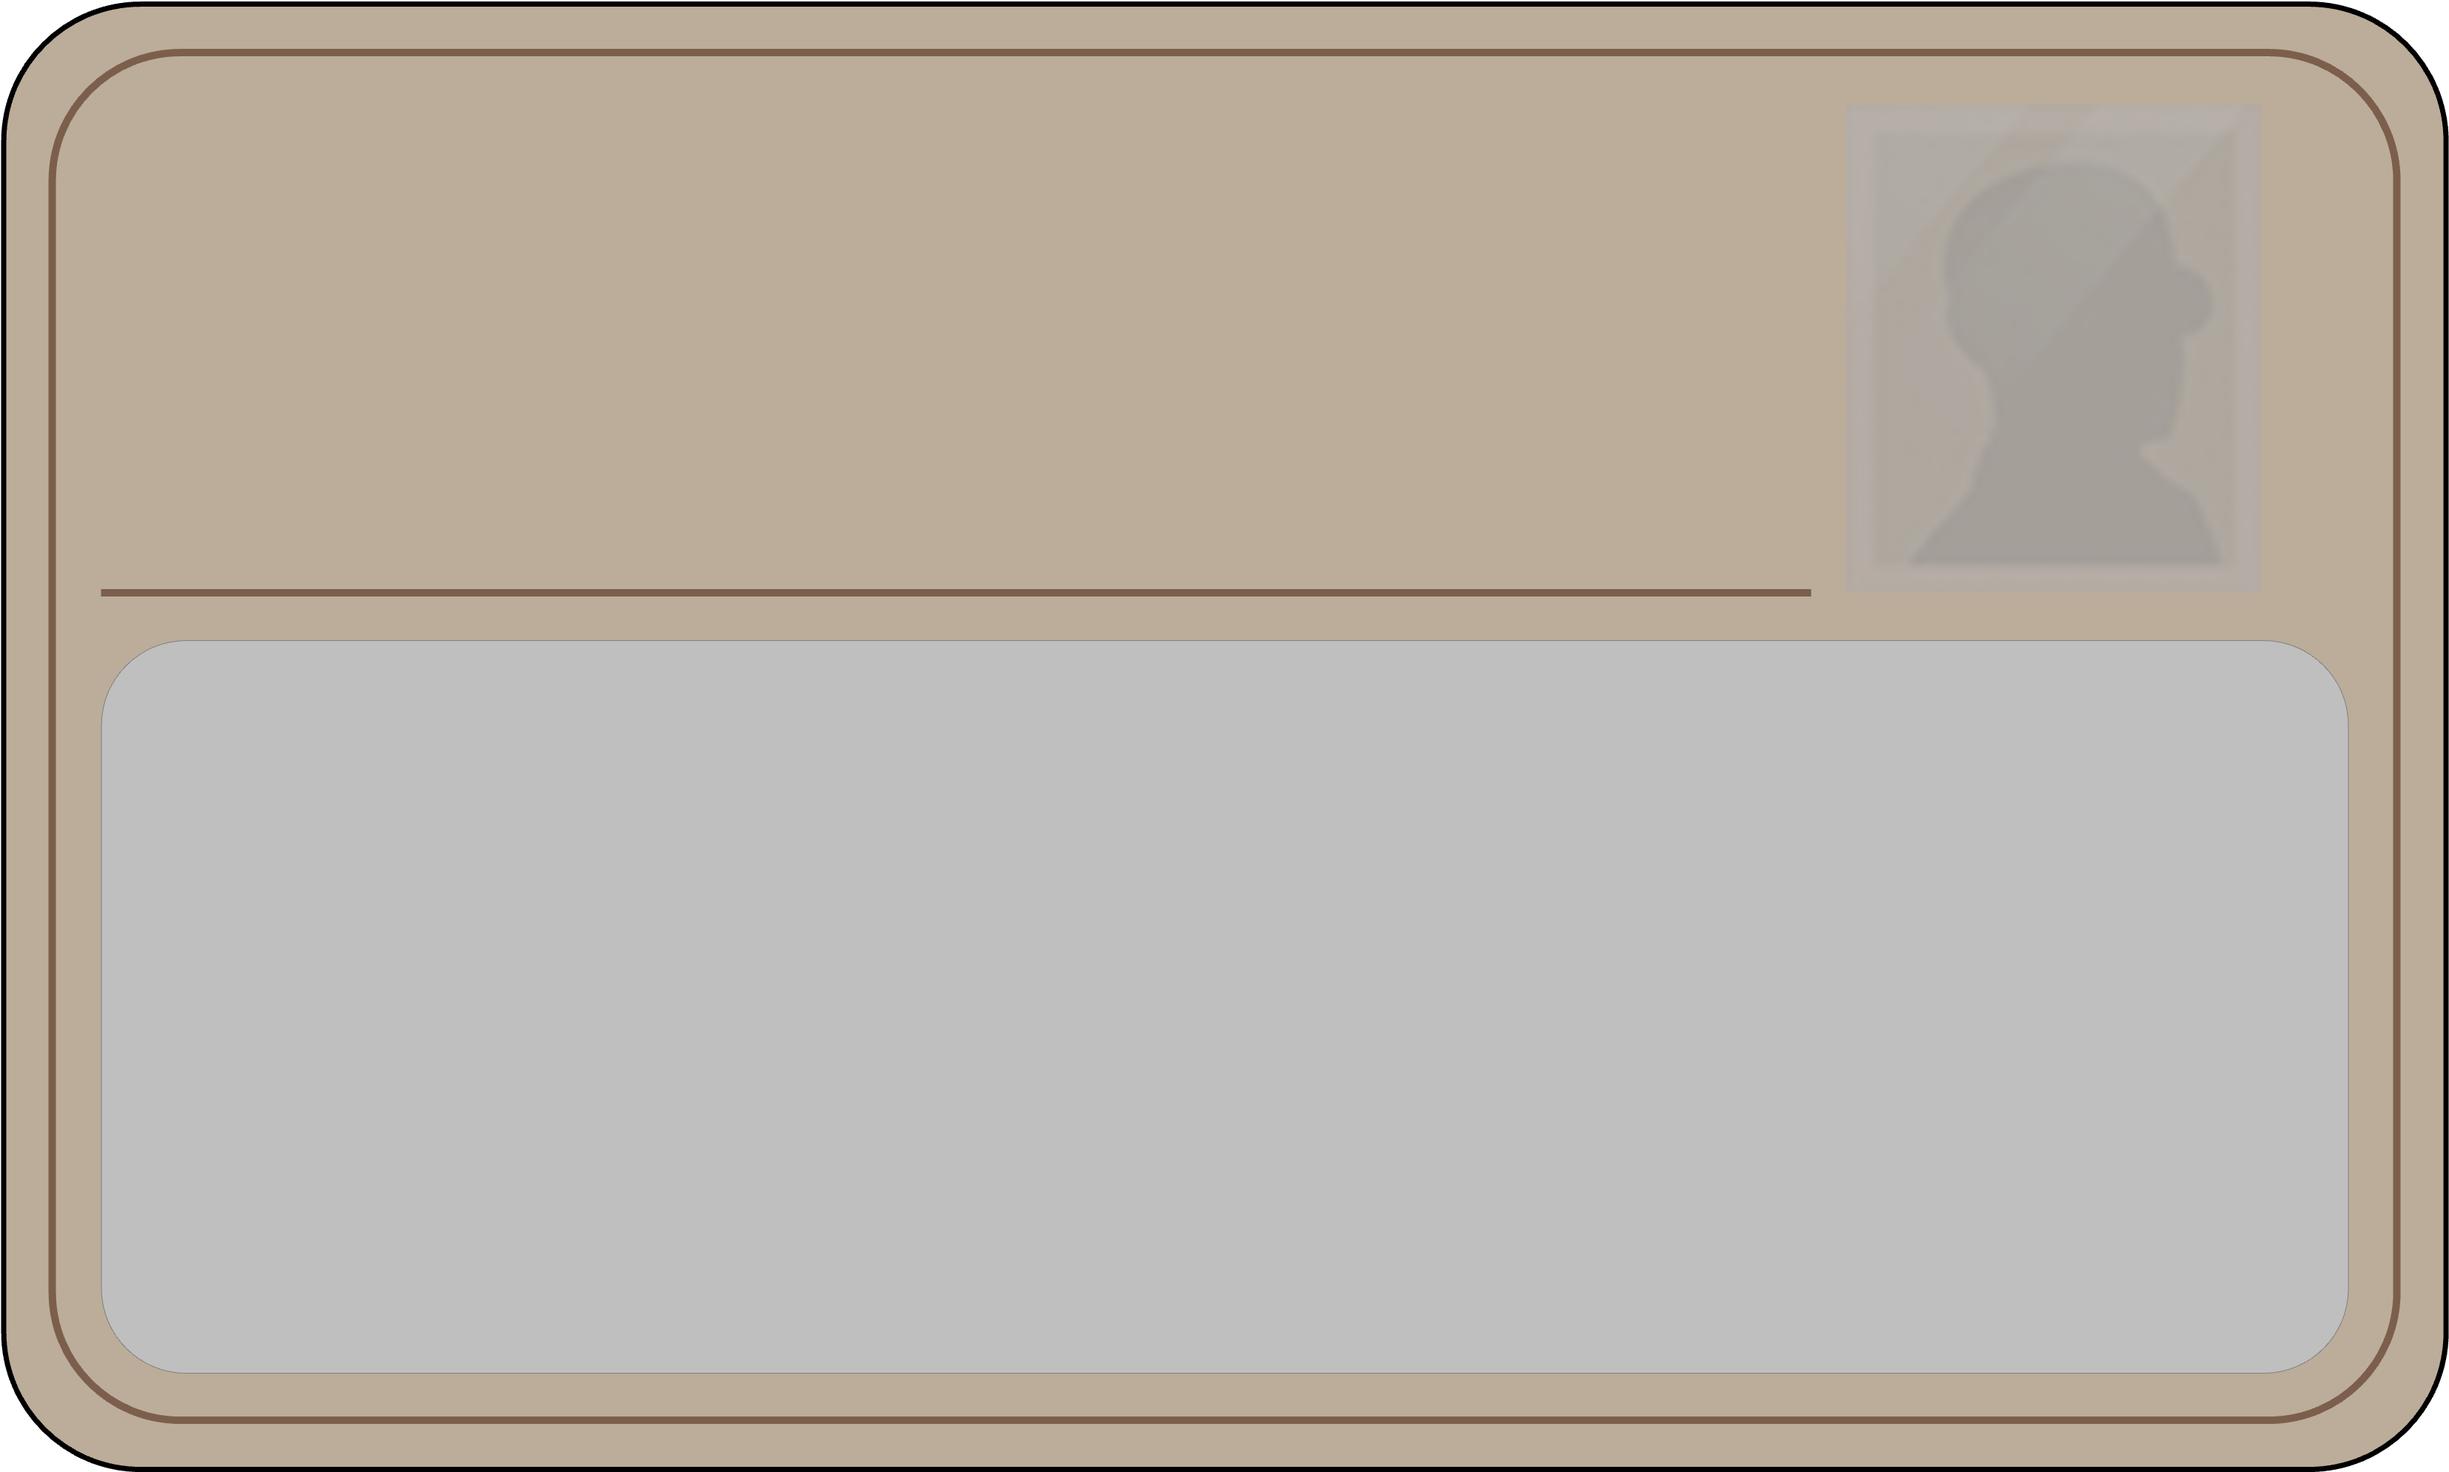
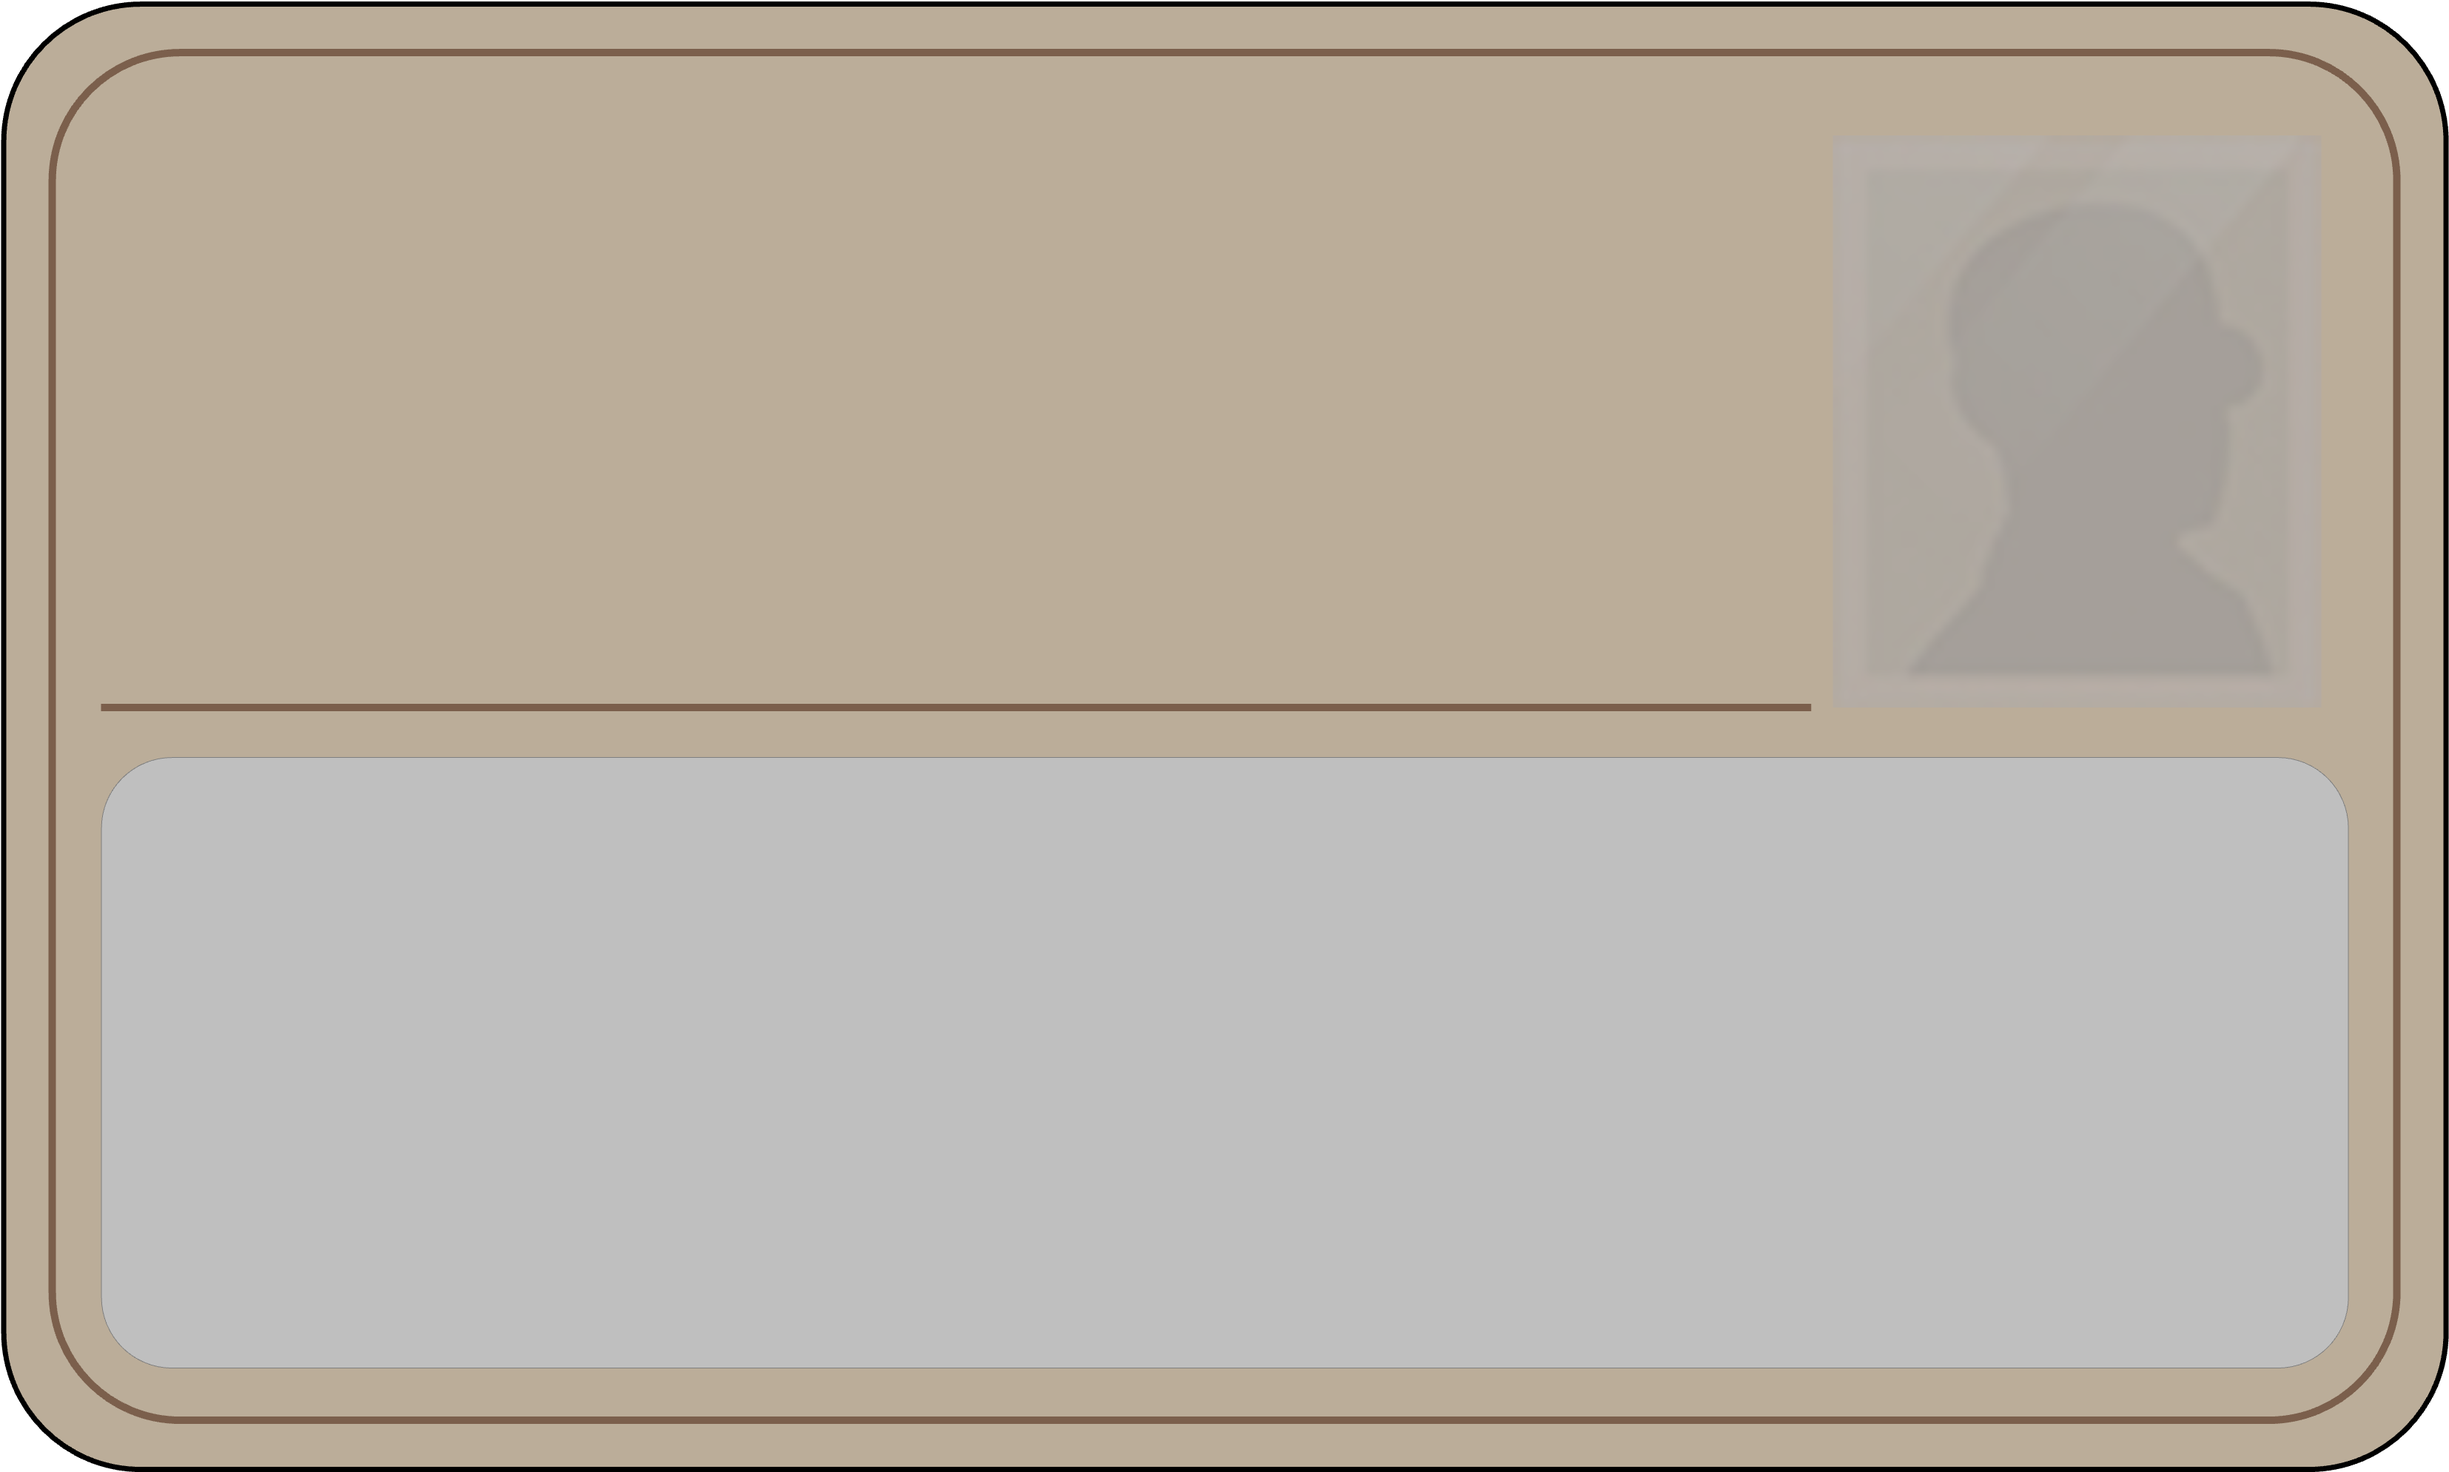
progress 50%

Changed region(s): [[0.0311, 0.4364, 0.9649, 0.5299], [0.0623, 0.904, 0.9338, 0.9351], [0.0311, 0.3741, 0.7471, 0.4052]]

diff --git a/codenames.py b/codenames.py
@@ -20,35 +20,99 @@ FPS = 60
 # Background Color
 BLACK = (0,0,0)
 WHITE = (255,255,255)
-GREY = (150,150,150)
+GREY = (200,200,200)
+BLUE = (0,0,255)
+RED = (255,0,0)
 screen.fill(BLACK) 
 
 # Initialize fonts
 titleFont = pg.font.SysFont("Arial",48,bold=True)
 menuFont = pg.font.SysFont("Arial",36)
 gameFont = pg.font.SysFont("Arial",24)
-wordsFont = pg.font.SysFont("Arial",36,bold=True)
+wordFont = pg.font.SysFont("Arial",36,bold=True)
+scoreFont = pg.font.SysFont("Arial",60,bold=True)
 
 # Load board image
 board = pg.transform.scale(pg.image.load("images/board.png"),winSize)
 
+# Load images
+cardSize = (5*61,3*60)
+cardImg = pg.transform.scale(pg.image.load("images/word-card.png"),cardSize)
+cardSelectImg = pg.transform.scale(pg.image.load("images/word-card-select.png"),cardSize)
+cardRedImg = pg.transform.scale(pg.image.load("images/word-card-red.png"),cardSize)
+cardBlueImg = pg.transform.scale(pg.image.load("images/word-card-blue.png"),cardSize)
+cardBlackImg = pg.transform.scale(pg.image.load("images/word-card-black.png"),cardSize)
+redImg1 = pg.transform.scale(pg.image.load("images/red1.png"),cardSize)
+redImg2 = pg.transform.scale(pg.image.load("images/red2.png"),cardSize)
+redImg3 = pg.transform.scale(pg.image.load("images/red1.png"),cardSize)
+redImg4 = pg.transform.scale(pg.image.load("images/red2.png"),cardSize)
+redImgs = [redImg1,redImg2,redImg3,redImg4]
+blueImg1 = pg.transform.scale(pg.image.load("images/blue1.png"),cardSize)
+blueImg2 = pg.transform.scale(pg.image.load("images/blue2.png"),cardSize)
+blueImg3 = pg.transform.scale(pg.image.load("images/blue1.png"),cardSize)
+blueImg4 = pg.transform.scale(pg.image.load("images/blue2.png"),cardSize)
+blueImgs = [blueImg1,blueImg2,blueImg3,blueImg4]
+bystImg1 = pg.transform.scale(pg.image.load("images/byst1.png"),cardSize)
+bystImg2 = pg.transform.scale(pg.image.load("images/byst2.png"),cardSize)
+bystImg3 = pg.transform.scale(pg.image.load("images/byst1.png"),cardSize)
+bystImg4 = pg.transform.scale(pg.image.load("images/byst2.png"),cardSize)
+bystImgs = [bystImg1,bystImg2,bystImg3,bystImg4]
+assnImg = pg.transform.scale(pg.image.load("images/assassin.png"),cardSize)
+
 # Read all words into a list, only once
-with open('wordlist.txt', 'r') as f:
+with open('wordlist-test.txt', 'r') as f:
     wordlist = [line.strip() for line in f if line.strip()]
 
 words = random.sample(wordlist,25)
 
 #----------------------------------------------------------------------------------------------------------------------
-# Draw all images on screen in current position
+# Inialize constants and variables
+#----------------------------------------------------------------------------------------------------------------------
+# Settings
+numAssns = 1 # Number of assassins
+turnTime = 300 # Time limit of each turn in seconds
+# imgStyle = 0 # WIP
+
+# Card numbers
+cardNums = list(range(0,25))
+
+# Card positions (top left corners)
+cardSpacing = 10
+cardPos = [[0]*2]*25
+i = 0
+for r in range(-2,3):
+    for c in range(-2,3):
+        cardPos[i] = [winSize[0]//2 - cardSize[0]//2 + r*(cardSize[0]+cardSpacing),winSize[1]//2 - cardSize[1]//2 + c*(cardSize[1]+cardSpacing) + 35]
+        i = i + 1
+
+rbFirst = random.randrange(0,2)
+if rbFirst:
+    redCards = np.array(random.sample(cardNums,8))
+    blueCards = np.array(random.sample(list(set(cardNums)-set(redCards)),9))
+else:
+    redCards = np.array(random.sample(cardNums,9))
+    blueCards = np.array(random.sample(list(set(cardNums)-set(redCards)),8))
+
+assnCard = np.array(random.sample(list((set(cardNums)-set(redCards))-set(blueCards)),numAssns))
+#----------------------------------------------------------------------------------------------------------------------
+# Draw all images on screen with various options
 #----------------------------------------------------------------------------------------------------------------------
 def draw(opts):
     # Draw board
     screen.fill(BLACK) 
     screen.blit(board,(0,0))
-    # Display each marble at current position
-    # for c in range(0,4):
-        # for m in range(0,4):
-            # screen.blit(marbs[c],pos[c,m]) 
+    # Display card grid
+    for i in range(0,25):
+        if i in redCards:
+            screen.blit(cardRedImg,cardPos[i]) 
+        elif i in blueCards:
+            screen.blit(cardBlueImg,cardPos[i]) 
+        elif i in assnCard:
+            screen.blit(cardBlackImg,cardPos[i]) 
+        else:
+            screen.blit(cardImg,cardPos[i]) 
+        wordText = wordFont.render(words[i],True,BLACK)
+        screen.blit(wordText,(cardPos[i][0] + cardSize[0]//2 - wordText.get_width()//2,cardPos[i][1] + 110))
     # Waiting to roll text
     if opts == 1:
         # textTurn = gameFont.render(colors[turn]+"'s turn.",True,WHITE)
@@ -78,7 +142,7 @@ def menu():
     draw(0)
     # Draw menu background
     menuSize = 400
-    pg.draw.rect(screen,(200,200,200),pg.Rect(winSize[0]//2 - menuSize//2,winSize[1]//2 - menuSize//2,menuSize,menuSize))
+    pg.draw.rect(screen,GREY,pg.Rect(winSize[0]//2 - menuSize//2,winSize[1]//2 - menuSize//2,menuSize,menuSize))
     # Draw menu text
     title = titleFont.render("Codenames",True,BLACK)
     screen.blit(title,(winSize[0]//2 - title.get_width()//2,winSize[1]//2 - title.get_height()//2 - 130))
@@ -112,6 +176,9 @@ def menu():
                 elif event.key == pg.K_ESCAPE:
                     pg.quit()
                     quit()
+            elif event.type == pg.MOUSEBUTTONDOWN:
+                return newMenu()
+
 
 #----------------------------------------------------------------------------------------------------------------------
 # Show new game menu and wait for selection
@@ -121,7 +188,7 @@ def newMenu():
     draw(0)
     # Draw menu background
     menuSize = 400
-    pg.draw.rect(screen,(200,200,200),pg.Rect(winSize[0]//2 - menuSize//2,winSize[1]//2 - menuSize//2,menuSize,menuSize))
+    pg.draw.rect(screen,GREY,pg.Rect(winSize[0]//2 - menuSize//2,winSize[1]//2 - menuSize//2,menuSize,menuSize))
     # Draw menu text
     title = titleFont.render("Codenames",True,BLACK)
     screen.blit(title,(winSize[0]//2 - title.get_width()//2,winSize[1]//2 - title.get_height()//2 - 130))
@@ -174,6 +241,8 @@ def newMenu():
                 # Back to main menu (ESC)
                 elif event.key == pg.K_ESCAPE:
                     return menu()
+            elif event.type == pg.MOUSEBUTTONDOWN:
+                return menu()
 
 
 #----------------------------------------------------------------------------------------------------------------------
@@ -183,7 +252,7 @@ def pause():
     draw(0)
     # Draw menu background
     menuSize = 350
-    pg.draw.rect(screen,(200,200,200),pg.Rect(winSize[0]//2 - menuSize//2,winSize[1]//2 - menuSize//2,menuSize,menuSize))
+    pg.draw.rect(screen,GREY,pg.Rect(winSize[0]//2 - menuSize//2,winSize[1]//2 - menuSize//2,menuSize,menuSize))
     # Draw menu text
     title = titleFont.render("Codenames",True,BLACK)
     screen.blit(title,(winSize[0]//2 - title.get_width()//2,winSize[1]//2 - title.get_height()//2 - 100))
